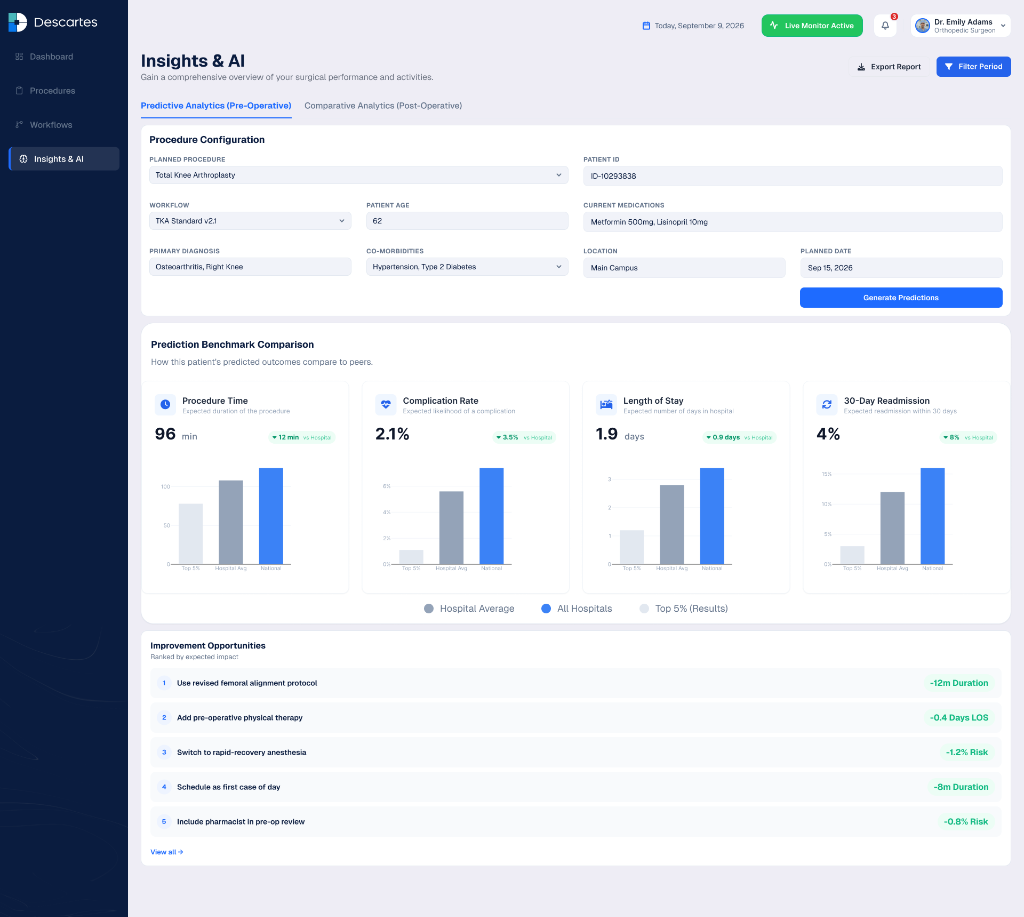
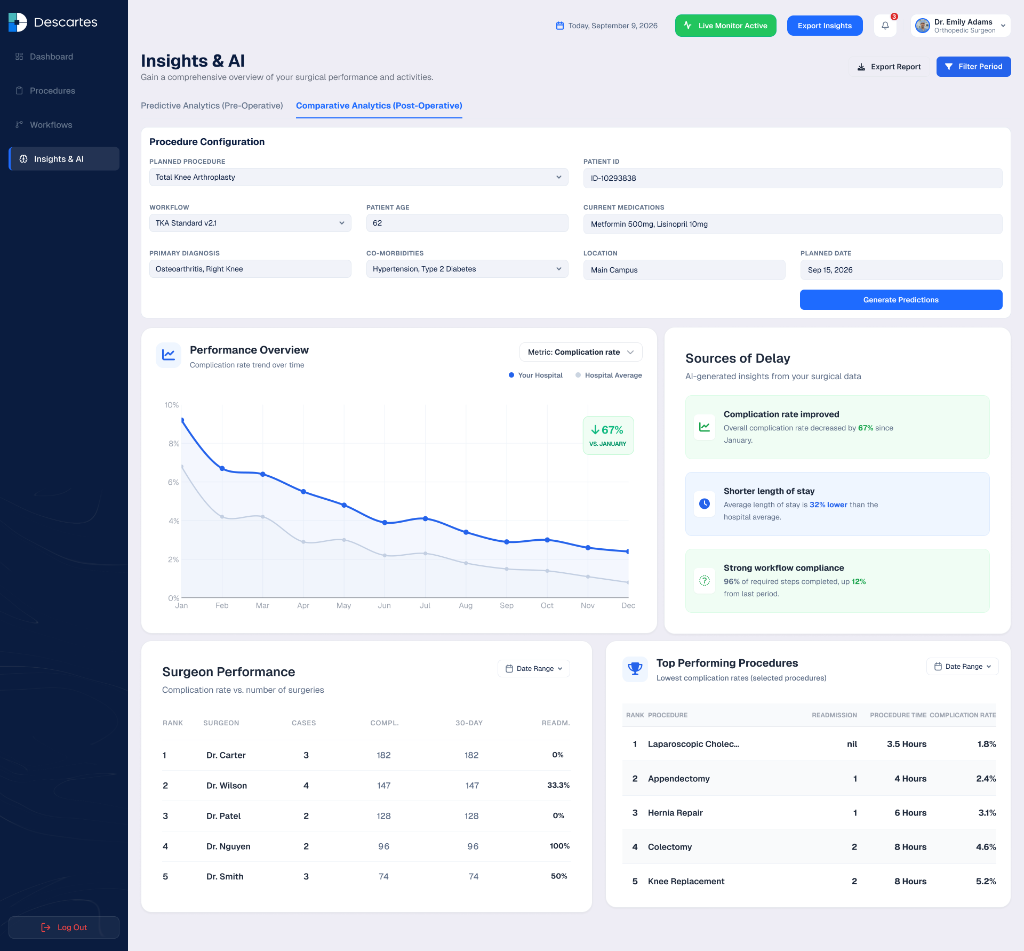
Update post-operative comparative analytics mockup in Descartes case study

diff --git a/src/app/work/descartes/page.tsx b/src/app/work/descartes/page.tsx
@@ -22,7 +22,7 @@ const IMG = {
   createProcedure: "/images/projects/descartes/create-procedure.png",
   workflows: "/images/projects/descartes/workflow-library.png",
   insightsPredictive: "/images/projects/descartes/insights-predictive.png",
-  insightsComparative: "/images/projects/descartes/insights-ai.png",
+  insightsComparative: "/images/projects/descartes/insights-comparative.png",
   designSystem: "/images/projects/descartes/brand-logo.png",
   brandLogo: "/images/projects/descartes/brand-logo.png",
   duoMonitors: "/images/projects/descartes/duo-monitors.png",
